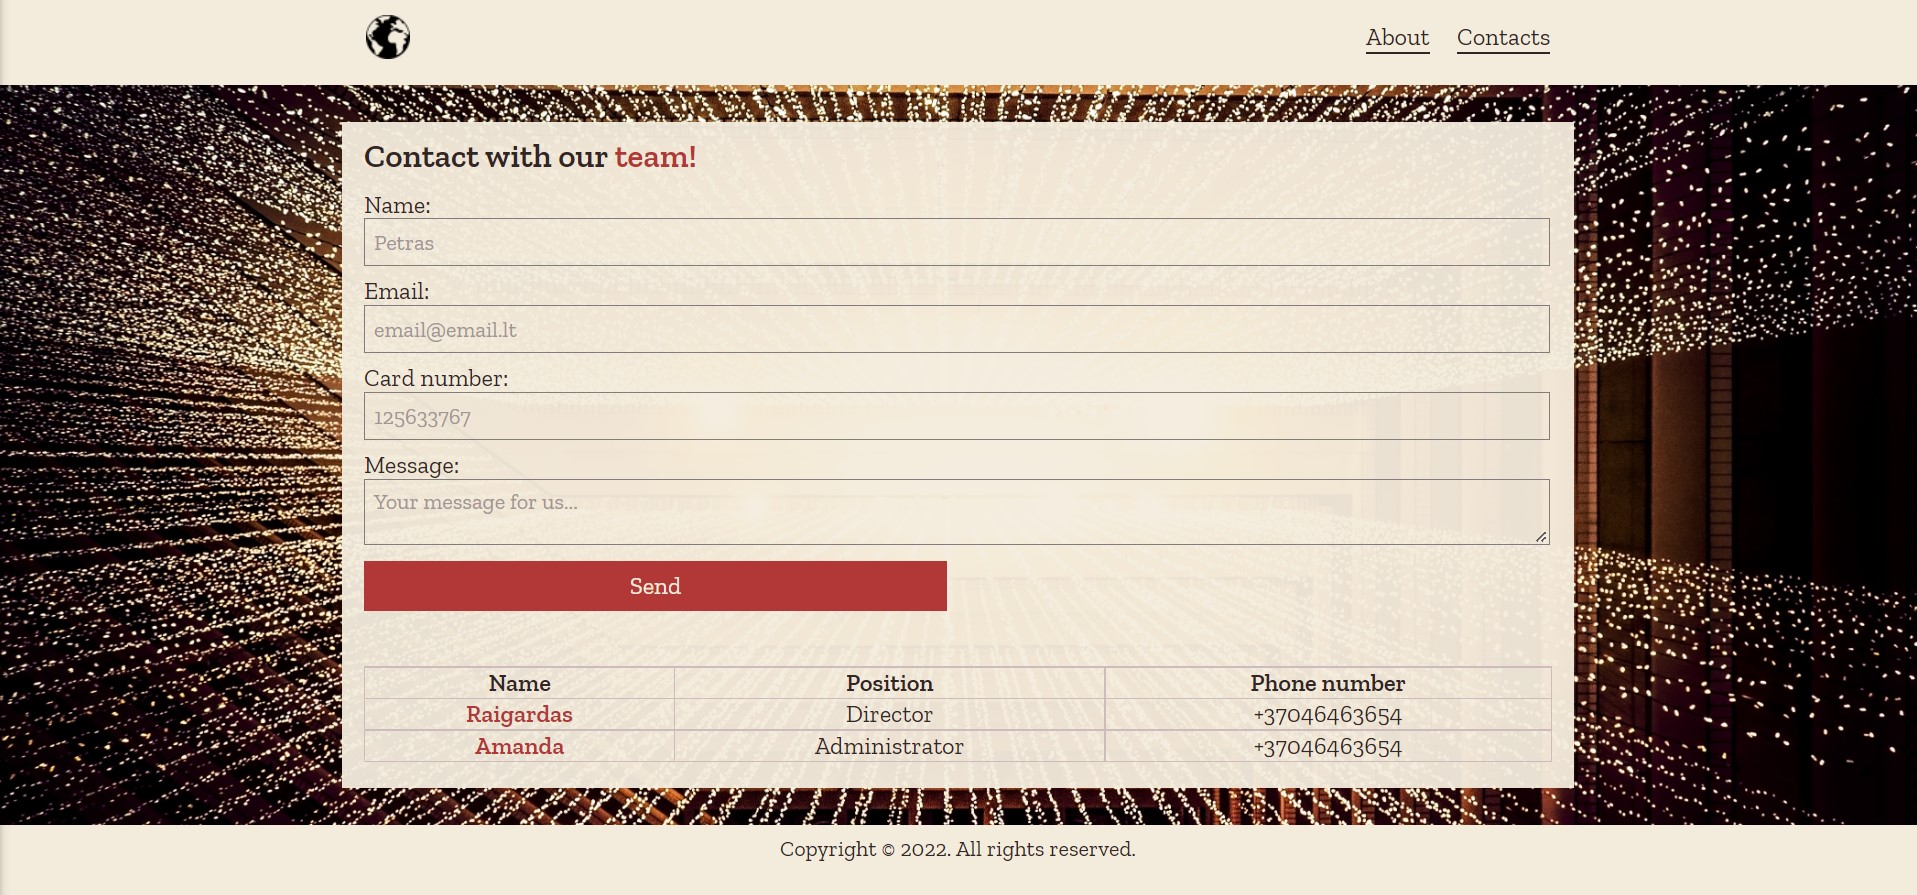
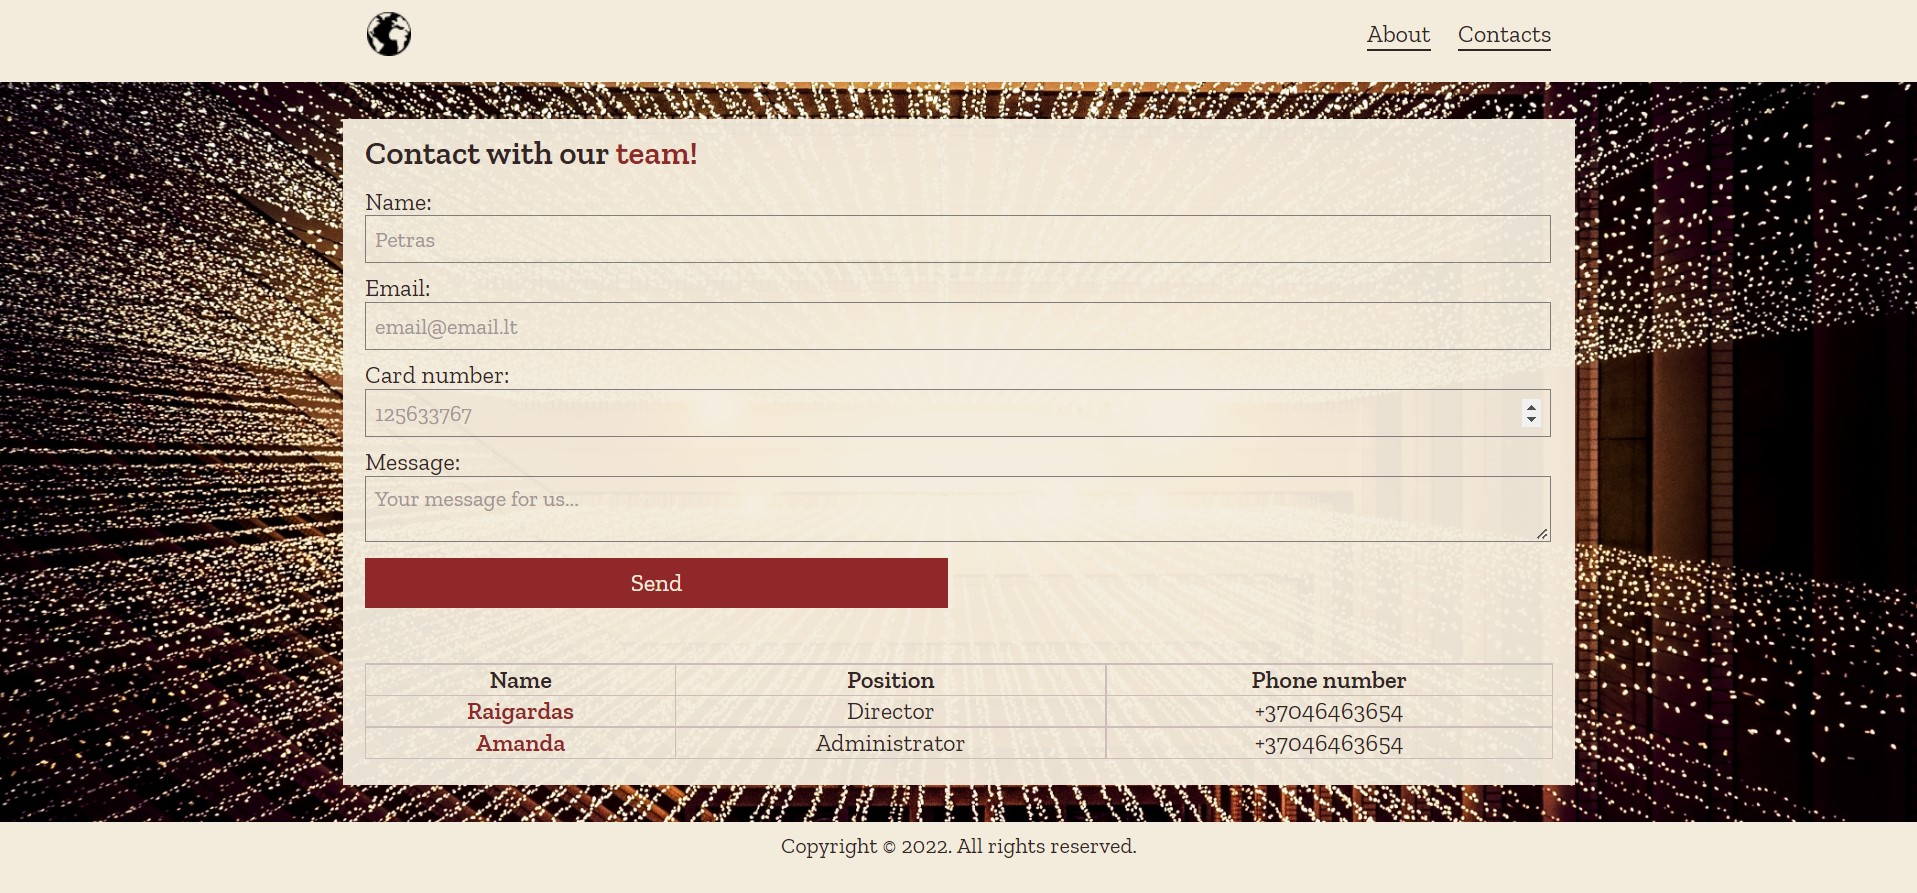
11-flex-box basic part done

diff --git a/11-flexbox-colorful-page/index.html b/11-flexbox-colorful-page/index.html
@@ -1,0 +1,52 @@
+<!DOCTYPE html>
+<html lang="en">
+<head>
+  <meta charset="UTF-8">
+  <meta http-equiv="X-UA-Compatible" content="IE=edge">
+  <meta name="viewport" content="width=device-width, initial-scale=1.0">
+  <title>Document</title>
+  <link rel="stylesheet" href="https://cdnjs.cloudflare.com/ajax/libs/normalize/8.0.1/normalize.min.css" integrity="sha512-NhSC1YmyruXifcj/KFRWoC561YpHpc5Jtzgvbuzx5VozKpWvQ+4nXhPdFgmx8xqexRcpAglTj9sIBWINXa8x5w==" crossorigin="anonymous" referrerpolicy="no-referrer" />
+  
+ <link rel="stylesheet" href="style.css">
+ <script src="https://kit.fontawesome.com/f2a29a7baf.js" crossorigin="anonymous" defer></script>
+</head>
+<body>
+  <div class="main-div">
+    <header>
+      <h1>Hi, my name is Lorem</h1>
+      <div class="header-div">
+        <div class="text-div">Lorem ipsum dolor sit amet consectetur adipisicing elit. Corporis nesciunt fugiat fuga molestias impedit.</div>
+        <div class="button-div"><button>GET STARTED ---> <i class="fa-solid fa-arrow-right-long"></i> </button></div>
+      </div>
+      
+    </header>
+    <main>
+      <section>
+        <div class="line-1-div-1"></div>
+        <div class="line-1-div-2"></div>
+      </section>
+      <section>
+        <div class="line-2-div-1"></div>
+        <div class="line-2-div-2"></div>
+      </section>
+      <section>
+        <div class="line-3-div-1"></div>
+        <div class="line-3-div-2"></div>
+      </section>
+      <article class="line-4">
+        <h2>Massa libero</h2>
+        <p>Lorem ipsum dolor sit amet consectetur adipisicing elit. In, cupiditate at porro harum possimus veritatis, facere placeat, mollitia nemo pariatur recusandae voluptas exercitationem dicta saepe. Voluptatibus vero odio quisquam a provident iure suscipit magni officia commodi. Vitae corrupti libero tempora consequuntur. Repellendus reprehenderit ratione mollitia aspernatur quos voluptatem consequuntur asperiores quidem? Exercitationem molestias error hic minus non officia enim eligendi.</p>
+        <div><button>GET STARTED ---></button></div>
+        
+      </article>
+    </main>
+
+  </div>
+  
+<footer>
+  <p>icons goes here</p>
+  <p>&copy Untitled</p>
+</footer>
+
+</body>
+</html>

diff --git a/11-flexbox-colorful-page/style.css b/11-flexbox-colorful-page/style.css
@@ -1,0 +1,107 @@
+@import url("https://fonts.googleapis.com/css2?family=Zilla+Slab:wght@400;600&display=swap");
+
+* {
+  font-family: "Zilla Slab", serif;
+  font-size: 1.1rem;
+  color: hsl(240, 16%, 86%);
+}
+.main-div {
+  width: 100%;
+}
+header {
+  width: 100%;
+  height: 19rem;
+  background-color: hsl(240, 30%, 19%);
+  padding: 3.5rem;
+  box-sizing: border-box;
+}
+header h1 {
+  padding-bottom: 1rem;
+  border-bottom: 3px solid hsl(240, 10%, 66%);
+}
+.header-div {
+  display: flex;
+}
+.text-div {
+  width: 35%;
+  text-transform: uppercase;
+  font-size: 0.8rem;
+  line-height: 1.2rem;
+  letter-spacing: 1px;
+  padding-right: 1rem;
+}
+button {
+  height: 100%;
+  background-color: rgba(240, 248, 255, 0);
+  border: 2px solid hsl(240, 16%, 86%);
+  font-size: 0.8rem;
+  letter-spacing: 1px;
+  padding: 0.5rem 1rem;
+}
+/* main content */
+section {
+  height: 15rem;
+  width: 100%;
+  box-sizing: border-box;
+  display: flex;
+}
+.line-1-div-1 {
+  background-color: hsla(199, 48%, 49%, 0.5);
+  height: 100%;
+  width: 35%;
+}
+.line-1-div-2 {
+  background-color: hsla(268, 69%, 36%, 0.5);
+  height: 100%;
+  width: 65%;
+}
+
+.line-2-div-1 {
+  background-color: hsla(0, 48%, 49%, 0.5);
+  height: 100%;
+  width: 65%;
+}
+.line-2-div-2 {
+  background-color: hsla(39, 95%, 41%, 0.5);
+  height: 100%;
+  width: 35%;
+}
+
+.line-3-div-1 {
+  background-color: hsla(231, 48%, 49%, 0.5);
+  height: 100%;
+  width: 35%;
+}
+.line-3-div-2 {
+  background-color: hsla(143, 65%, 30%, 0.5);
+  height: 100%;
+  width: 65%;
+}
+.line-4 {
+  height: 17rem;
+  width: 100%;
+  background-color: hsl(240, 30%, 19%);
+  box-sizing: border-box;
+  border: 1px solid hsl(240, 30%, 19%);
+  padding: 2rem 3.5rem;
+}
+.line-4 h2 {
+  display: inline;
+  padding: 0 0.5rem 0.3rem 0;
+  border-bottom: 3px solid hsl(240, 10%, 66%);
+}
+.line-4 p {
+  padding: 1rem 0;
+}
+
+/* footer */
+footer {
+  background-color: hsl(240, 32%, 16%);
+  margin: 0;
+  height: 5rem;
+  padding: 2rem 3.5rem;
+}
+footer p:last-child {
+  color: hsl(240, 7%, 45%);
+  font-size: 0.9rem;
+}

diff --git a/10-flexbox-pages/style.css b/10-flexbox-pages/style.css
@@ -71,7 +71,7 @@ footer {
 }
 /* contacts page */
 span {
-  color: hsl(0, 52%, 46%);
+  color: hsl(0, 56%, 36%);
   font-size: 1.5rem;
 }
 form {
@@ -96,7 +96,7 @@ textarea {
   font-size: 1rem;
 }
 button {
-  background-color: hsl(0, 52%, 46%);
+  background-color: hsl(0, 56%, 36%);
   color: hsl(40, 47%, 91%);
   border-style: none;
   width: 50%;
@@ -115,6 +115,6 @@ table {
   margin-top: 2.5rem;
 }
 table tr td:first-child {
-  color: hsl(0, 52%, 46%);
+  color: hsl(0, 56%, 36%);
   font-weight: bold;
 }
